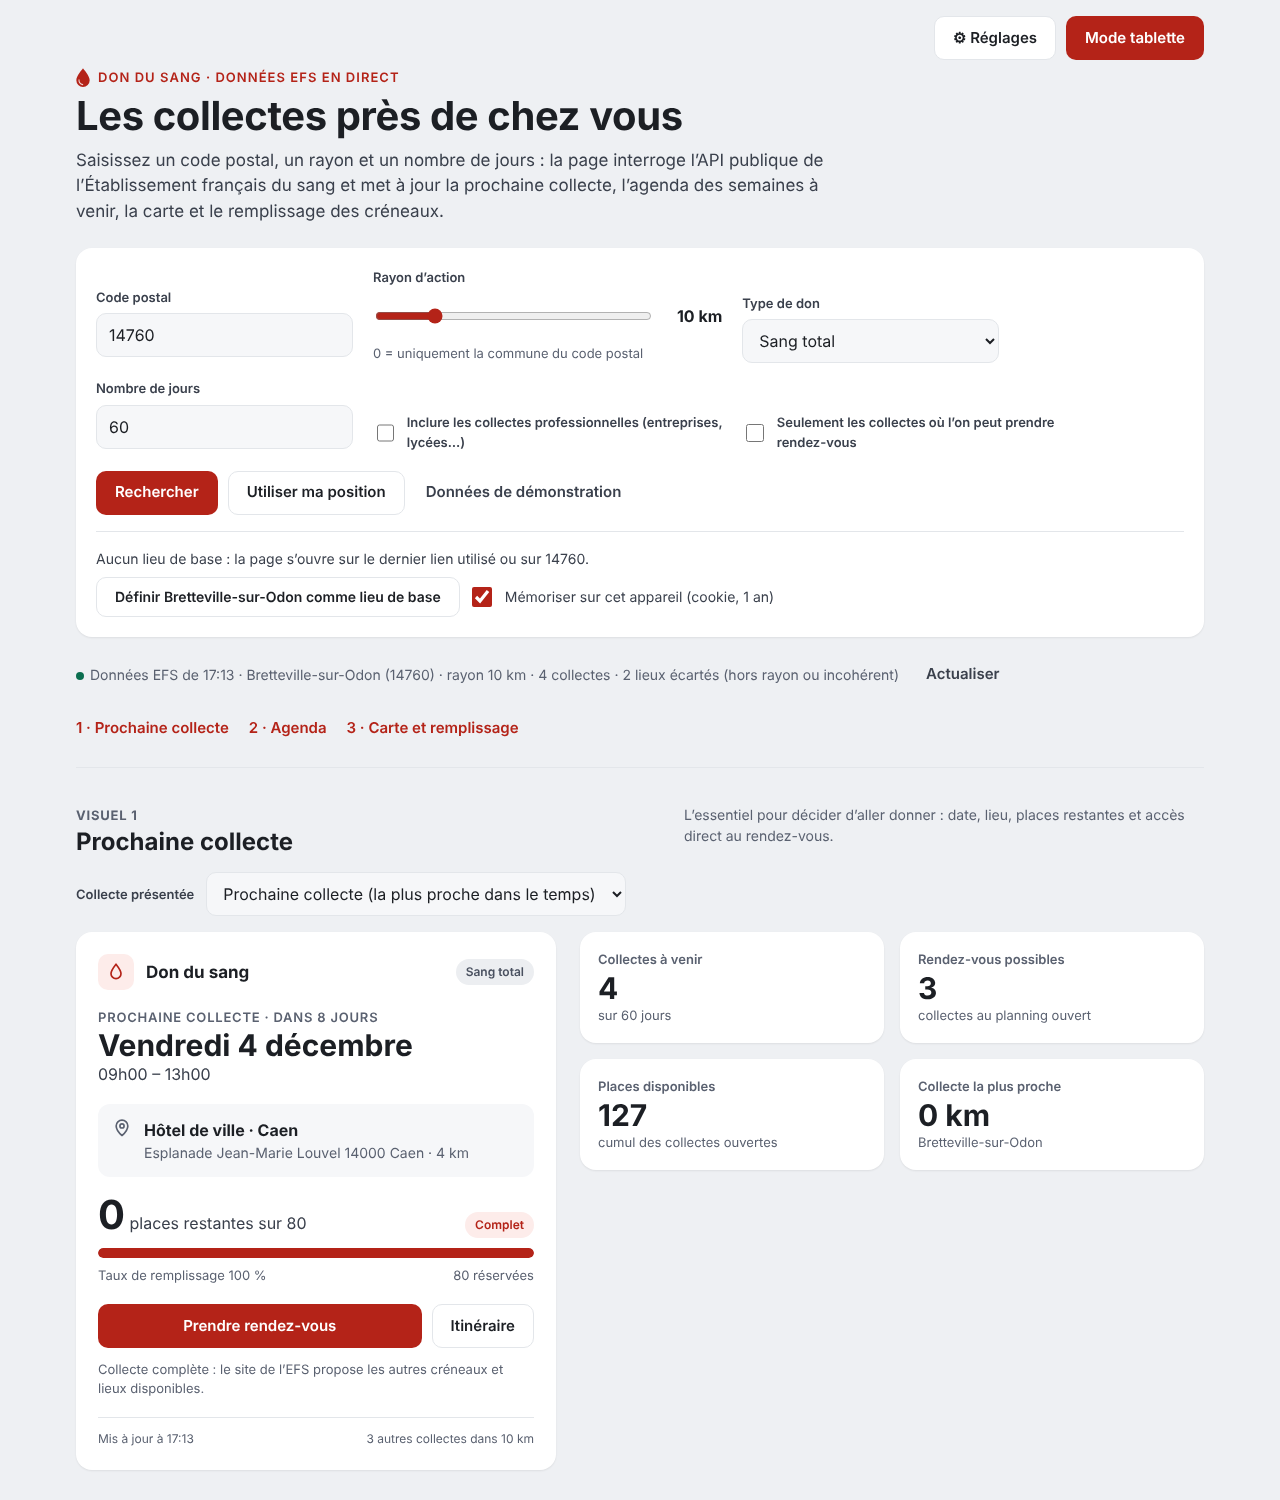
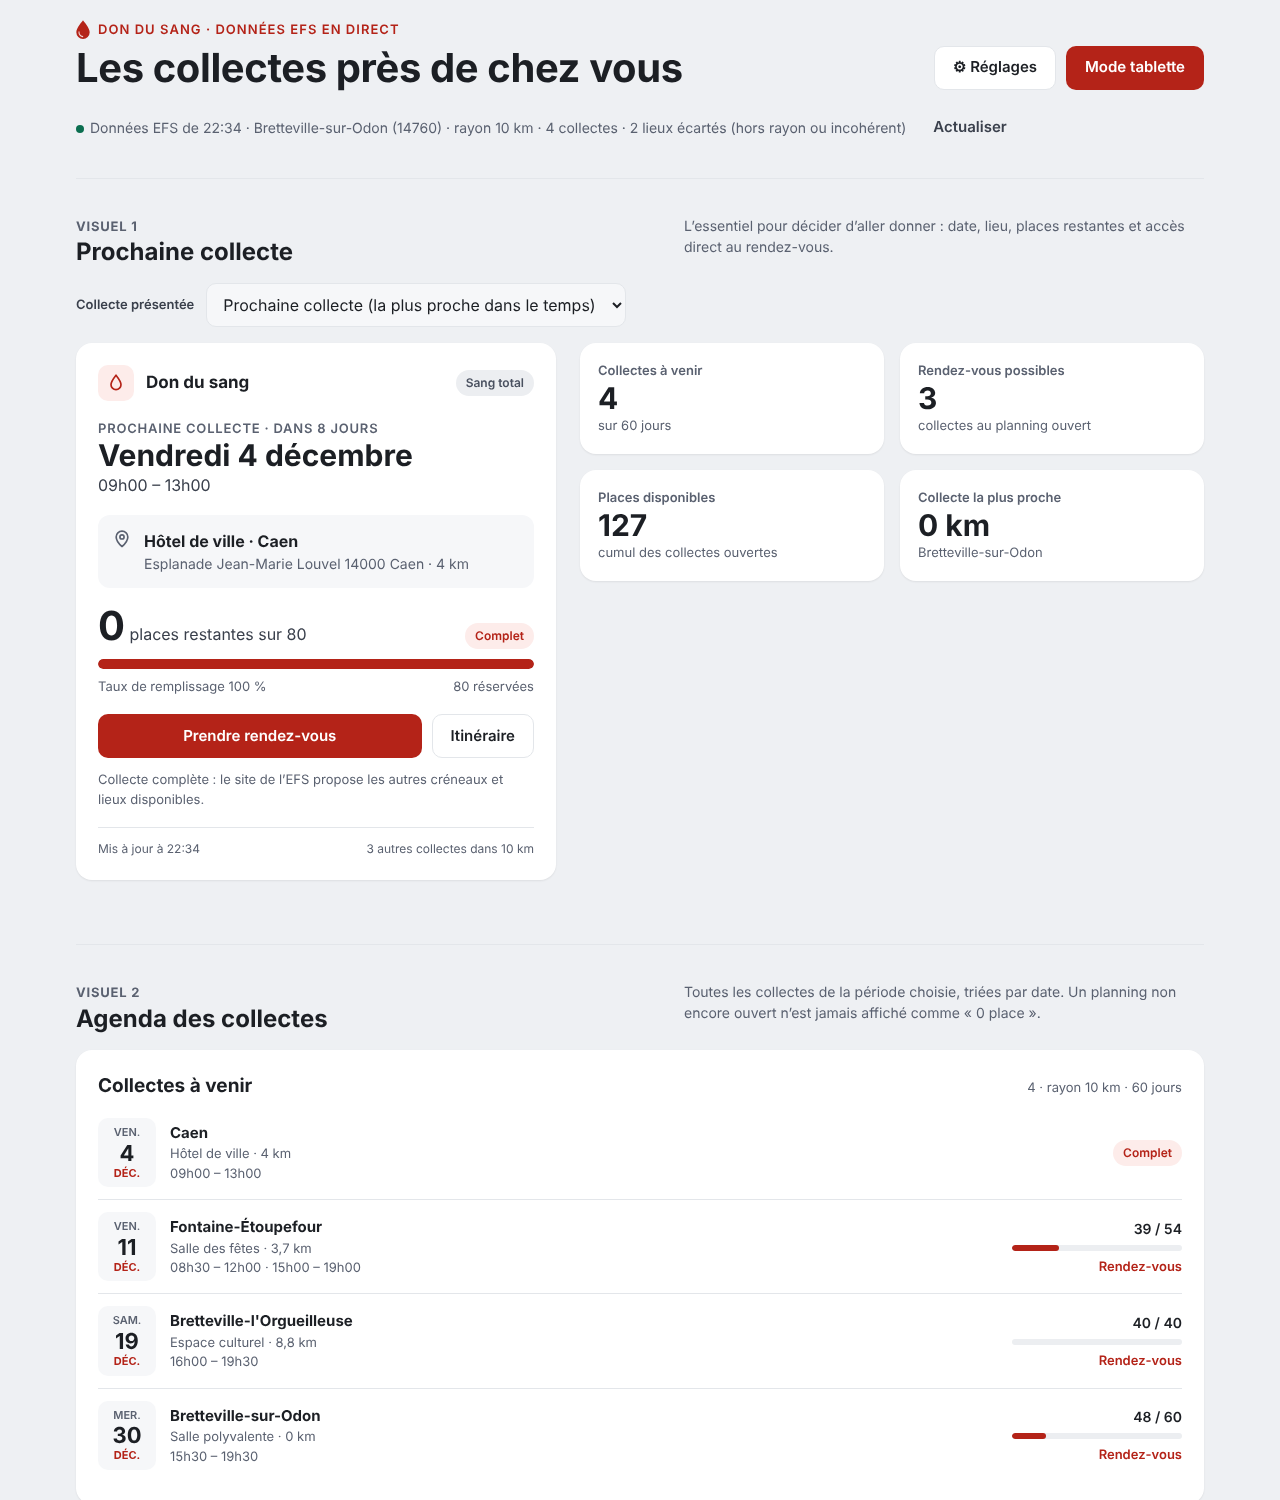
Page complète : les trois vues d'abord, paramètres en sous-vue derrière « ⚙ Réglages »
- en-tête compact : titre, ligne d'état, boutons « ⚙ Réglages » et « Mode tablette »
- formulaire et lieu de base regroupés dans la sous-vue « Paramètres de recherche »
  (masquée par défaut ; Fermer, Échap ou second clic ; refermée après une recherche
  réussie, laissée ouverte en cas d'erreur de saisie)
- sommaire 1·2·3 retiré ; documentation et captures mises à jour

Claude-Session: https://claude.ai/code/session_01882uboDzkT9kSx2WJVyJE4

diff --git a/site/js/app.js b/site/js/app.js
@@ -1165,7 +1165,7 @@
     $("tablette-btn").addEventListener("click", () => enterTablette(Tab.read()));
     $("tab-quitter").addEventListener("click", exitTablette);
     $("tab-reglages").addEventListener("click", openReglages);
-    $("top-reglages").addEventListener("click", openReglages);
+    initParametres();
     initRdv();
     $("reg-form").addEventListener("submit", saveReglages);
     $("reg-annuler").addEventListener("click", () => $("reglages").close());
@@ -1179,6 +1179,38 @@
     }
   }
 
+  // ------------------------------------------------- paramètres (sous-vue de la page)
+  // Le formulaire de recherche n'est affiché que sur demande (« ⚙ Réglages ») : la page
+  // présente d'abord les trois vues. Il se referme après une recherche réussie.
+  function afficherParametres(ouvrir, { focus = true } = {}) {
+    const p = $("parametres");
+    p.hidden = !ouvrir;
+    $("top-reglages").setAttribute("aria-expanded", String(ouvrir));
+    if (ouvrir && focus) {
+      p.scrollIntoView({ block: "start", behavior: "smooth" });
+      $("cp").focus({ preventScroll: true });
+    }
+  }
+
+  /** Recherche lancée depuis le panneau : refermé si elle aboutit, ouvert sinon. */
+  async function rechercherDepuisPanneau(action) {
+    const ok = await action();
+    const erreurSaisie = $("cp-err").textContent || $("horizon-err").textContent;
+    if (ok !== false && !erreurSaisie && !state.error && state.result) {
+      afficherParametres(false);
+      $("top-reglages").focus({ preventScroll: true });
+      window.scrollTo({ top: 0, behavior: "smooth" });
+    }
+  }
+
+  function initParametres() {
+    $("top-reglages").addEventListener("click", () => afficherParametres($("parametres").hidden));
+    $("param-fermer").addEventListener("click", () => { afficherParametres(false); $("top-reglages").focus(); });
+    $("parametres").addEventListener("keydown", (e) => {
+      if (e.key === "Escape") { afficherParametres(false); $("top-reglages").focus(); }
+    });
+  }
+
   // ---------------------------------------------------------------- actions
   function startDemo() {
     state.demo = true;
@@ -1188,26 +1220,31 @@
     $("notice").replaceChildren(h("div", { class: "notice" },
       h("p", null, "Mode démonstration : réponses enregistrées pour le code postal 14760, dates recalées sur aujourd’hui. Lancez une recherche avec un autre code postal pour revenir aux données réelles.")));
     state.error = null;
-    onSubmit();
+    return onSubmit();
   }
 
+  /** Résout à vrai quand la position a servi à une recherche, à faux sinon (panneau laissé ouvert). */
   function useGeolocation() {
     if (!window.isSecureContext || !navigator.geolocation) {
       $("notice").replaceChildren(h("div", { class: "notice" },
         h("p", null, "La géolocalisation du navigateur exige une page servie en HTTPS (ou depuis localhost). Saisissez un code postal à la place.")));
-      return;
+      return Promise.resolve(false);
     }
     setBusy(true);
-    navigator.geolocation.getCurrentPosition(async (pos) => {
-      readForm();
-      state.demo = false;
-      state.center = { lat: pos.coords.latitude, lon: pos.coords.longitude, label: "Ma position", cp: null };
-      await loadCollectes();
-      setBusy(false);
-    }, (err) => {
-      setBusy(false);
-      $("notice").replaceChildren(h("div", { class: "notice" }, h("p", null, `Position indisponible : ${err.message}`)));
-    }, { timeout: 15000, maximumAge: 600000 });
+    return new Promise((resolve) => {
+      navigator.geolocation.getCurrentPosition(async (pos) => {
+        readForm();
+        state.demo = false;
+        state.center = { lat: pos.coords.latitude, lon: pos.coords.longitude, label: "Ma position", cp: null };
+        await loadCollectes();
+        setBusy(false);
+        resolve(true);
+      }, (err) => {
+        setBusy(false);
+        $("notice").replaceChildren(h("div", { class: "notice" }, h("p", null, `Position indisponible : ${err.message}`)));
+        resolve(false);
+      }, { timeout: 15000, maximumAge: 600000 });
+    });
   }
 
   function init() {
@@ -1228,7 +1265,7 @@
     const rayonTexte = () => { $("rayon-out").textContent = +$("rayon").value === 0 ? "commune" : `${$("rayon").value} km`; };
     rayonTexte();
 
-    $("search").addEventListener("submit", onSubmit);
+    $("search").addEventListener("submit", (ev) => { ev.preventDefault(); rechercherDepuisPanneau(() => onSubmit(ev)); });
     $("rayon").addEventListener("input", rayonTexte);
     // Le rayon change le rectangle interrogé : nouvel appel. Les autres réglages filtrent la réponse déjà reçue.
     $("rayon").addEventListener("change", () => { readForm(); if (state.center && !state.busy) loadCollectes(); });
@@ -1240,9 +1277,9 @@
       state.insee = e.target.value; selectCommune(); readForm(); loadCollectes();
     });
     $("cp").addEventListener("input", (e) => { e.target.value = e.target.value.replace(/\D/g, "").slice(0, 5); });
-    $("demo").addEventListener("click", startDemo);
+    $("demo").addEventListener("click", () => rechercherDepuisPanneau(startDemo));
     $("vue-commune").addEventListener("change", (e) => { state.communeVue = e.target.value; if (state.result) renderV1(); syncUrl(); });
-    $("geoloc").addEventListener("click", useGeolocation);
+    $("geoloc").addEventListener("click", () => rechercherDepuisPanneau(useGeolocation));
 
     const lat = parseFloat(p.get("lat")), lon = parseFloat(p.get("lon"));
     renderBase();

diff --git a/site/index.html b/site/index.html
@@ -93,14 +93,26 @@
 </dialog>
 
 <header class="wrap">
-  <div class="top-actions">
-    <button class="btn secondary" type="button" id="top-reglages">⚙ Réglages</button>
-    <button class="btn primary" type="button" id="tablette-btn">Mode tablette</button>
-  </div>
+  <div class="entete">
+    <div class="entete-titre">
   <p class="eyebrow brand"><svg class="logo" viewBox="34 0 188 256" aria-hidden="true"><path d="M128 2C120 16 38 104 38 166a90 90 0 0 0 180 0C218 104 136 16 128 2Z" fill="currentColor"/><path d="M74 158C72 190 92 216 124 224" fill="none" stroke="#fff" stroke-opacity=".8" stroke-width="14" stroke-linecap="round"/></svg>Don du sang · données EFS en direct</p>
   <h1>Les collectes près de chez vous</h1>
-  <p class="lead">Saisissez un code postal, un rayon et un nombre de jours : la page interroge l’API publique de l’Établissement français du sang et met à jour la prochaine collecte, l’agenda des semaines à venir, la carte et le remplissage des créneaux.</p>
+    </div>
+    <div class="top-actions">
+      <button class="btn secondary" type="button" id="top-reglages" aria-expanded="false" aria-controls="parametres">⚙ Réglages</button>
+      <button class="btn primary" type="button" id="tablette-btn">Mode tablette</button>
+    </div>
+  </div>
 
+  <!-- Paramètres de recherche : sous-vue affichée par le bouton « ⚙ Réglages » -->
+  <section class="panneau" id="parametres" hidden aria-labelledby="param-titre">
+  <div class="panneau-tete">
+    <div>
+      <h2 id="param-titre">Paramètres de recherche</h2>
+      <p class="lead">Code postal, rayon et nombre de jours : la page interroge l’API publique de l’Établissement français du sang et met à jour les trois vues.</p>
+    </div>
+    <button class="btn ghost" type="button" id="param-fermer">Fermer</button>
+  </div>
   <form class="search" id="search" novalidate>
     <div class="fields">
       <div class="f">
@@ -147,15 +159,10 @@
     </div>
     <div class="base" id="base" aria-live="polite"></div>
   </form>
+  </section>
 
   <div class="status" id="status" aria-live="polite"></div>
   <div id="notice"></div>
-
-  <nav class="toc" aria-label="Sommaire">
-    <a href="#synthese">1 · Prochaine collecte</a>
-    <a href="#agenda">2 · Agenda</a>
-    <a href="#suivi">3 · Carte et remplissage</a>
-  </nav>
 </header>
 
 <main class="wrap">

diff --git a/site/css/styles.css b/site/css/styles.css
@@ -184,7 +184,15 @@ footer p{margin:0 0 6px}
 
 /* v3.0 : champs invalides, mode tablette, fenêtre de réglages */
 header{position:relative}
-.top-actions{display:flex;justify-content:flex-end;gap:10px;padding-top:16px;margin-bottom:8px}
+.entete{display:flex;flex-wrap:wrap;align-items:flex-end;justify-content:space-between;gap:12px 20px;padding-top:20px}
+.entete h1{margin:0}
+.top-actions{display:flex;gap:10px}
+.panneau{margin-top:20px;padding:20px;border:1px solid var(--line);border-radius:18px;background:var(--soft)}
+.panneau-tete{display:flex;align-items:flex-start;justify-content:space-between;gap:16px}
+.panneau-tete h2{margin:0 0 6px;font-size:20px}
+.panneau-tete .lead{font-size:15px}
+.panneau .search{margin-top:16px}
+#top-reglages[aria-expanded="true"]{border-color:var(--accent);color:var(--accent)}
 .rdv-note{font-size:13px;color:var(--muted);margin:-6px 0 0}
 input[aria-invalid="true"]{border-color:var(--accent)}
 

diff --git a/MODE_OPERATOIRE.md b/MODE_OPERATOIRE.md
@@ -41,6 +41,8 @@ Règles de filtrage appliquées :
 
 ### Nouveautés de la version 3.0
 
+- **Page allégée : les trois vues d'abord.** En haut de la page, seuls le titre, la ligne d'état (lieu, rayon, nombre de collectes) et deux boutons : **⚙ Réglages** et **Mode tablette**. Les paramètres de recherche (code postal, rayon, type de don, nombre de jours, options, lieu de base) forment une sous-vue qui s'ouvre avec « ⚙ Réglages » et se referme d'elle-même après une recherche réussie (ou par « Fermer », la touche Échap, ou un second clic sur « ⚙ Réglages »). En cas d'erreur de saisie, elle reste ouverte avec le message.
+
 - **Mode tablette** (bouton « Mode tablette » en haut à droite, à côté de « ⚙ Réglages », ou adresse `…/?mode=tablette` ; « Page complète » ramène à la page normale). Affichage lisible de loin du **lieu de collecte choisi** : date, horaires, places restantes, jauge, bouton de rendez-vous, puis les autres collectes du secteur, l'heure et la mise à jour. Voir § 7.
 - **Réglages par bouton.** « ⚙ Réglages » ouvre une fenêtre avec le lieu initial (code postal, commune), le rayon, le nombre de jours, le type de don et le lieu de collecte affiché ; la liste des lieux se recalcule à chaque changement. « Enregistrer » les conserve dans le cookie `efs_tablette` (un an) ; la case « Ouvrir directement en mode tablette » fait démarrer la page en mode tablette sur cet appareil. « Oublier ces réglages » efface le cookie.
 - **Rendez-vous avec un donneur présent (tablette)** : la réservation s'ouvre dans une fenêtre séparée, la tablette affiche « Prise de rendez-vous en cours » et reprend la main à la fermeture de cette fenêtre, places actualisées ; bouton « Réserver » sur chaque autre collecte.
@@ -53,7 +55,7 @@ Cookies : `efs_lieu_base` (lieu de base, page normale) et `efs_tablette` (régla
 
 ### Nouveautés de la version 2.2
 
-- **Lieu de base.** Le bouton « Définir … comme lieu de base » (sous le formulaire) enregistre le lieu affiché. À la prochaine ouverture sans paramètre dans l’adresse, la page s’ouvre directement sur ce lieu ; « Revenir au lieu de base » y ramène après une autre recherche, « Remplacer par … » le change, « Oublier » l’efface. Fonctionne avec un code postal comme avec « Utiliser ma position ».
+- **Lieu de base.** Le bouton « Définir … comme lieu de base » (sous le formulaire, dans « ⚙ Réglages ») enregistre le lieu affiché. À la prochaine ouverture sans paramètre dans l’adresse, la page s’ouvre directement sur ce lieu ; « Revenir au lieu de base » y ramène après une autre recherche, « Remplacer par … » le change, « Oublier » l’efface. Fonctionne avec un code postal comme avec « Utiliser ma position ».
 - **Cookie, à la demande.** Case « Mémoriser sur cet appareil » cochée : cookie `efs_lieu_base` valable un an. Décochée : cookie de session, effacé à la fermeture du navigateur. Le cookie ne contient que le lieu (code postal, commune, coordonnées), n’est lu que par la page et n’est jamais transmis à un tiers ; il est déposé uniquement quand l’utilisateur clique, ce qui le dispense de bandeau de consentement (cookie fonctionnel demandé par l’utilisateur). Il est posé avec `SameSite=Lax` et `Secure` lorsque la page est servie en HTTPS.
 - **Priorité à l’ouverture.** Paramètres de l’adresse (lien partagé, favori) → lieu de base → 14760 par défaut.
 - **Collecte présentée.** Au-dessus du visuel 1, la liste « Collecte présentée » propose les communes des collectes à venir avec leurs dates : la synthèse affiche alors la prochaine collecte de cette commune (par défaut, la plus proche dans le temps). Si la commune n’a plus de collecte retenue, la page l’indique et revient à la prochaine collecte. Le choix est conservé dans l’adresse (`vc=`).

diff --git a/README.md b/README.md
@@ -6,11 +6,15 @@ Version 3.0 · compagnon de l’intégration [HomeAssistant_DonduSang](https://g
 
 ## Présentation visuelle
 
-### Page de recherche
+### Page complète
 
-Code postal, rayon d’action (0 à 50 km), nombre de jours (1 à 180) et type de don ; les trois visuels se mettent à jour : prochaine collecte et indicateurs, agenda, carte et remplissage.
+La page présente directement les trois vues : prochaine collecte et indicateurs, agenda, carte et remplissage. En haut, une ligne d’état rappelle le lieu, le rayon et le nombre de collectes.
 
-![Page de recherche : formulaire, prochaine collecte et indicateurs](images/page-recherche.png)
+![Page complète : prochaine collecte et indicateurs](images/page-recherche.png)
+
+Le bouton **⚙ Réglages** ouvre la sous-vue des paramètres : code postal, rayon d’action (0 à 50 km), nombre de jours (1 à 180), type de don, options et lieu de base. Elle se referme après la recherche (ou par « Fermer » / Échap).
+
+![Sous-vue « Paramètres de recherche » ouverte par ⚙ Réglages](images/page-parametres.png)
 
 ### Mode tablette
 
